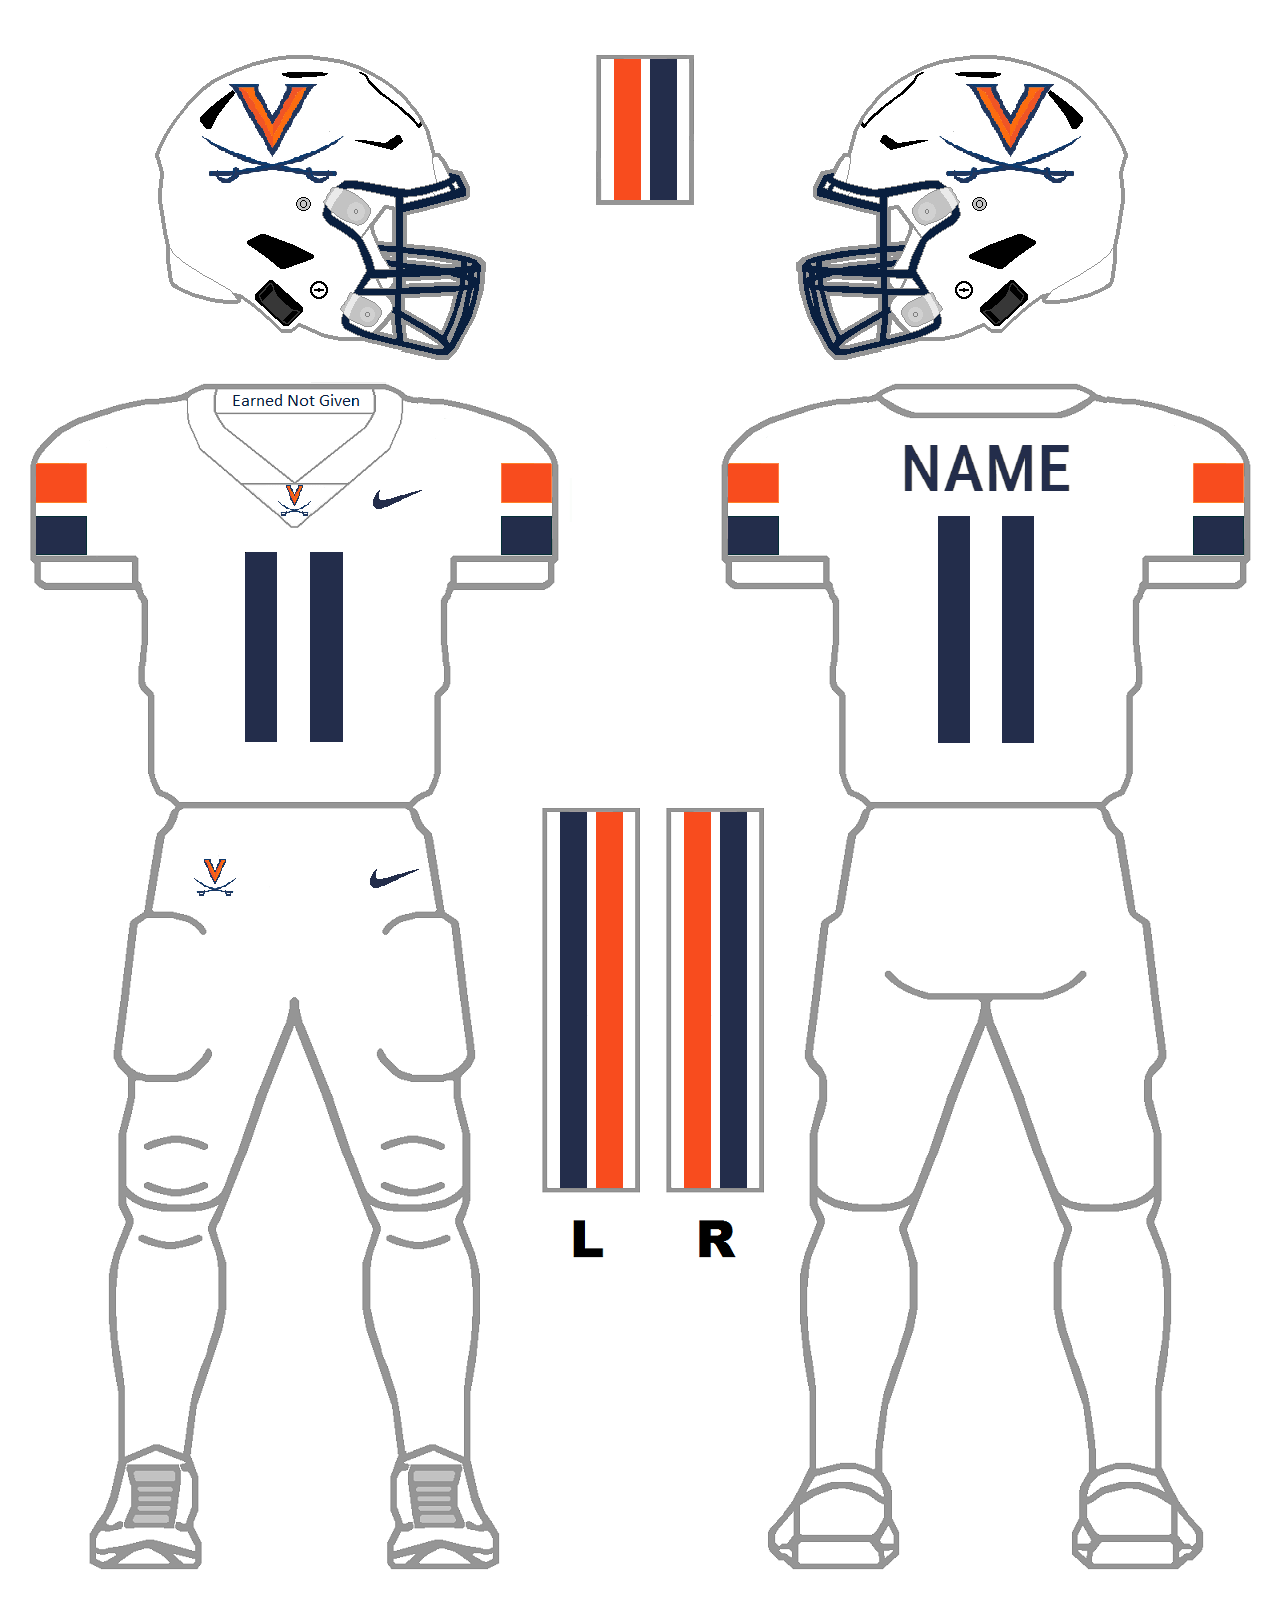
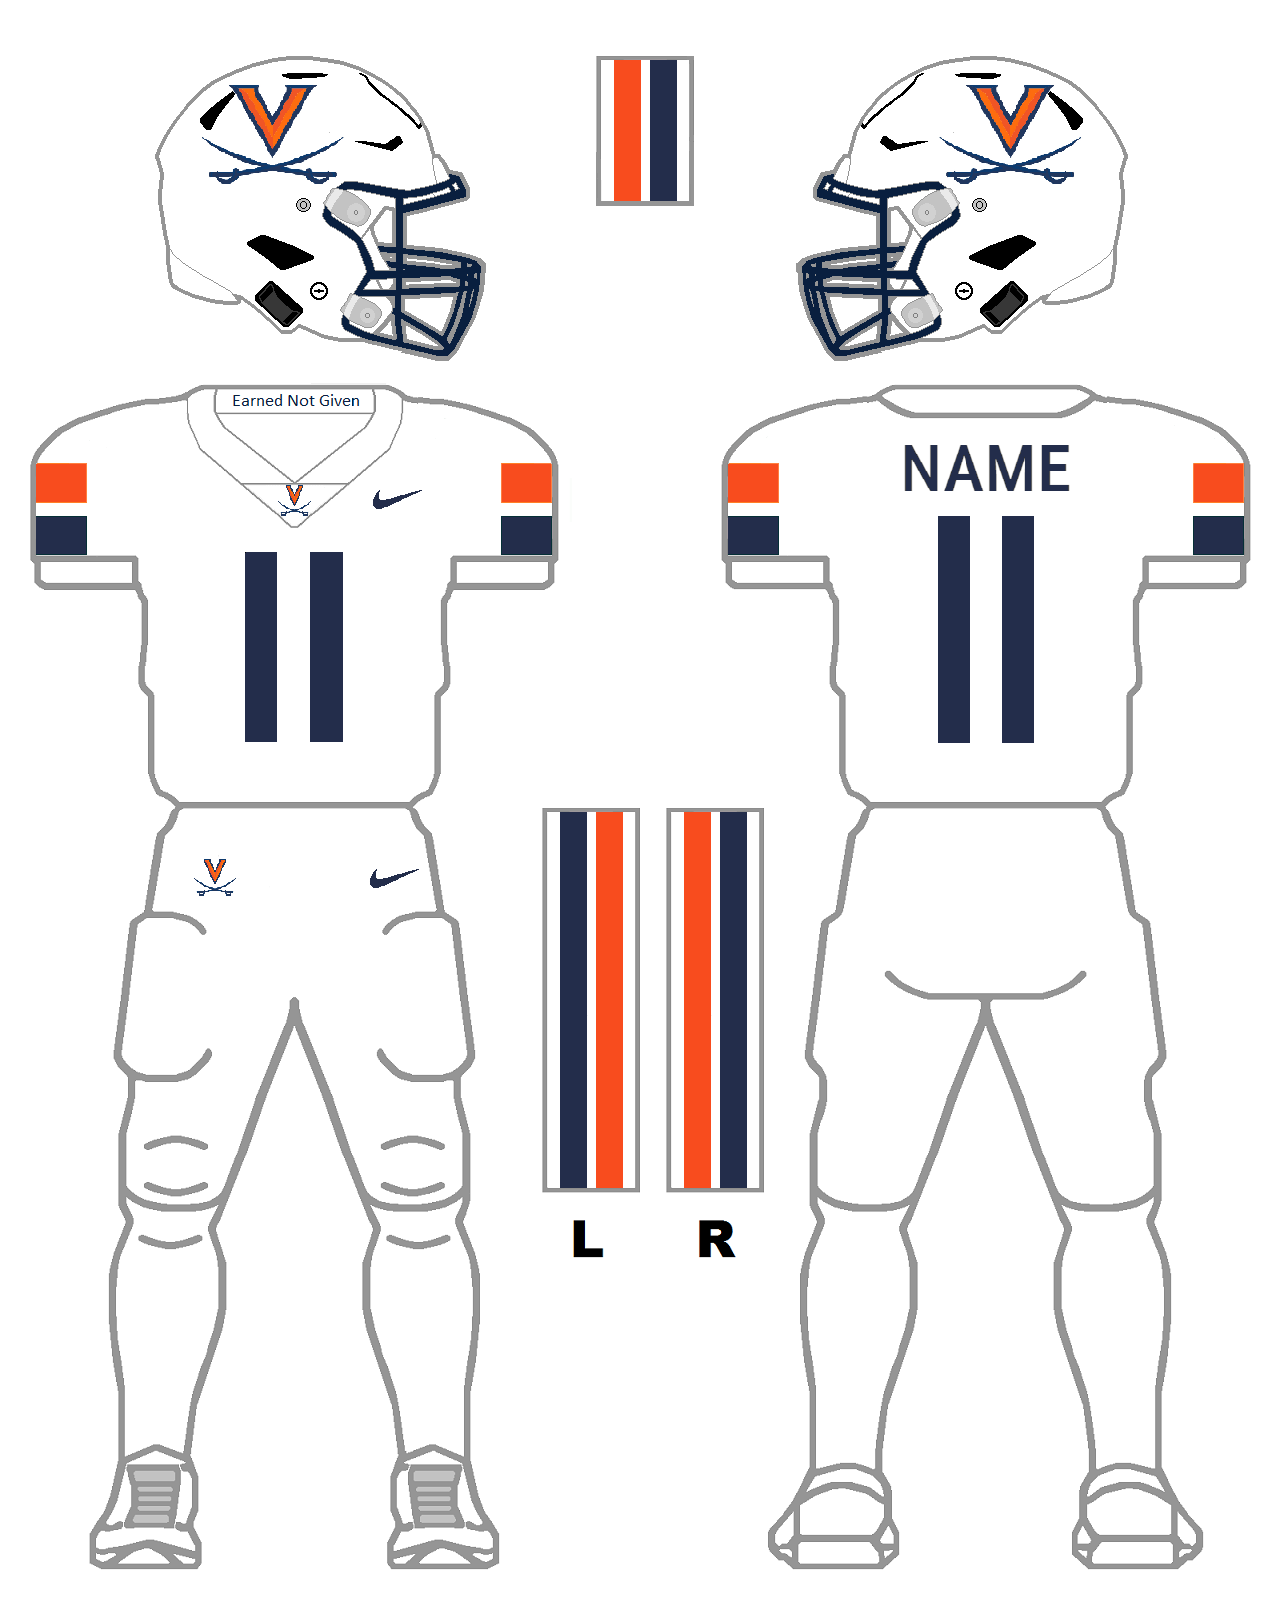
Added 2023 all orange uni

diff --git a/html/2023.html b/html/2023.html
@@ -60,12 +60,6 @@
                 class="w-100 shadow-1-strong rounded mb-4"
                 alt="tmp blank template"
               />
-          
-              <img
-                src="../uni_png/2023_UVA_AWAY.png"
-                class="w-100 shadow-1-strong rounded mb-4"
-                alt="tmp blank template"
-              />
             </div>
             <div class="col-lg-4 col-md-12 mb-4 mb-lg-0">
                 <img
@@ -73,24 +67,19 @@
                   class="w-100 shadow-1-strong rounded mb-4"
                   alt="tmp blank template"
                 />
-            
+
                 <img
-                  src="../uni_png/2023_UVA_AWAY.png"
-                  class="w-100 shadow-1-strong rounded mb-4"
-                  alt="tmp blank template"
-                />
+                src="../uni_png/2023_UVA_ORANGE.png"
+                class="w-100 shadow-1-strong rounded mb-4"
+                alt="tmp blank template"
+              />
+              
               </div>
               <div class="col-lg-4 col-md-12 mb-4 mb-lg-0">
                 <img
                   src="../uni_png/2023_UVA_AWAY.png"
                   class="w-100 shadow-1-strong rounded mb-4"
                   alt="tmp blank template"
-                />
-            
-                <img
-                  src="../uni_png/2023_UVA_AWAY.png"
-                  class="w-100 shadow-1-strong rounded mb-4"
-                  alt="tmp blank templatee"
                 />
               </div>
           </div>
